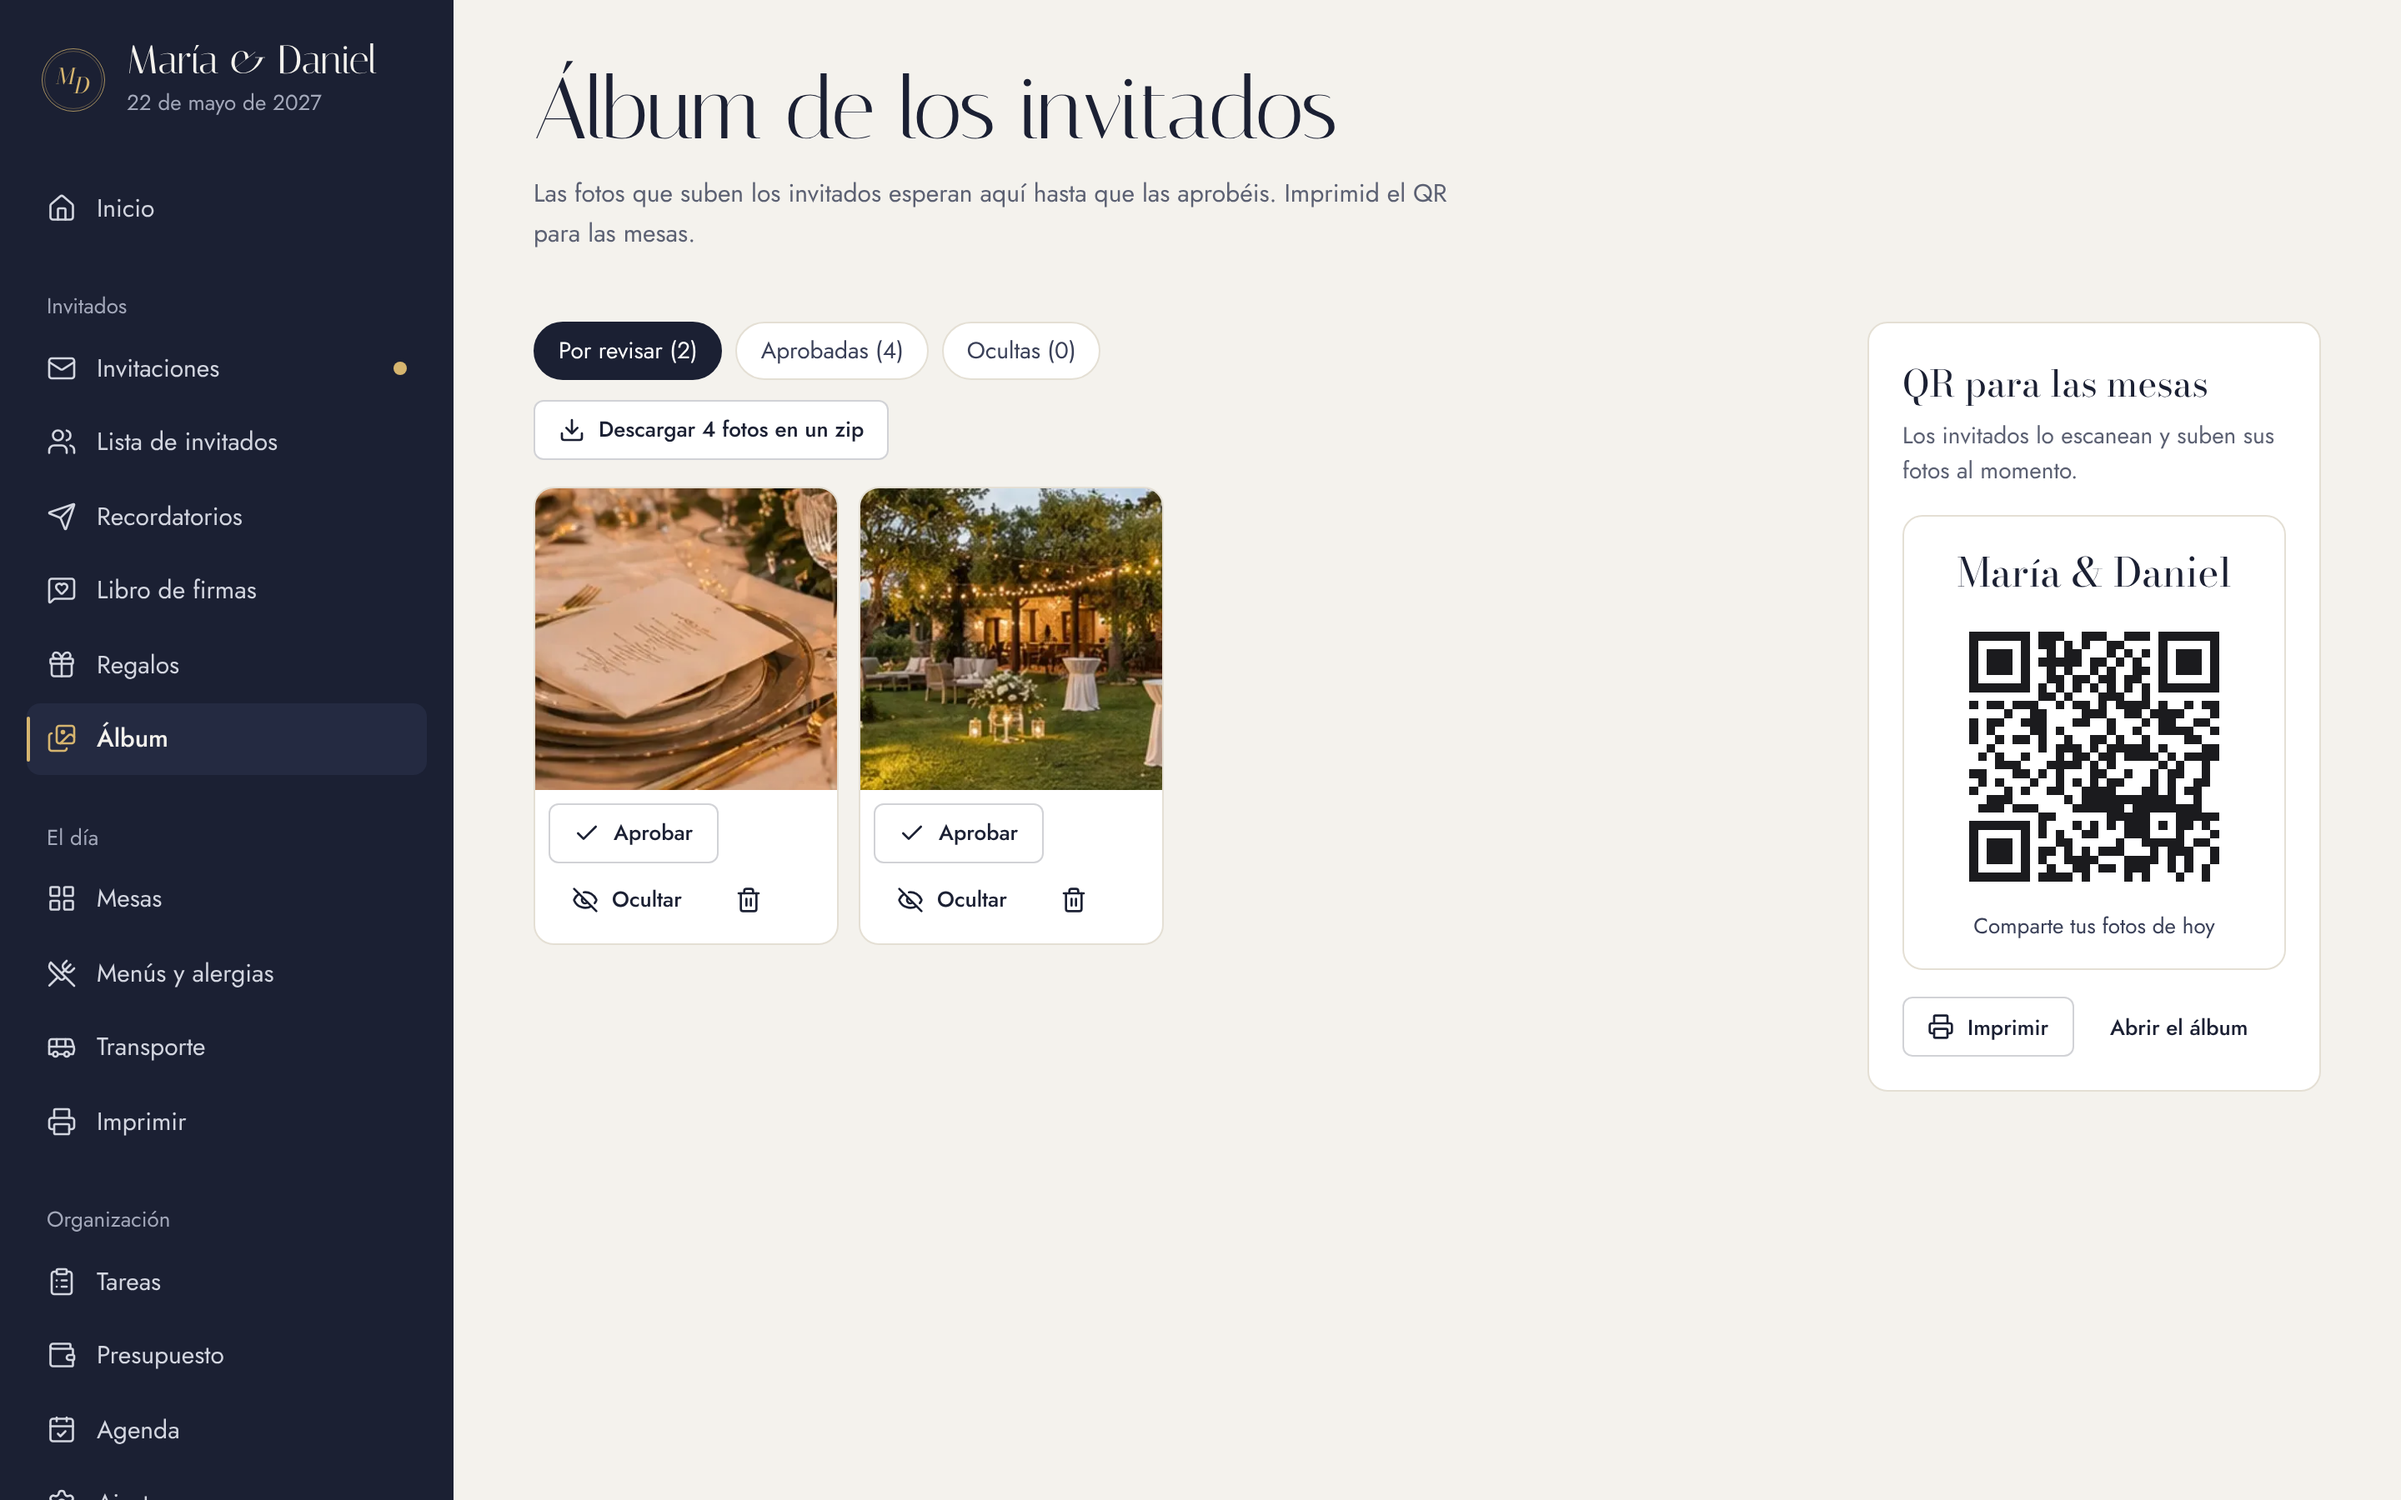
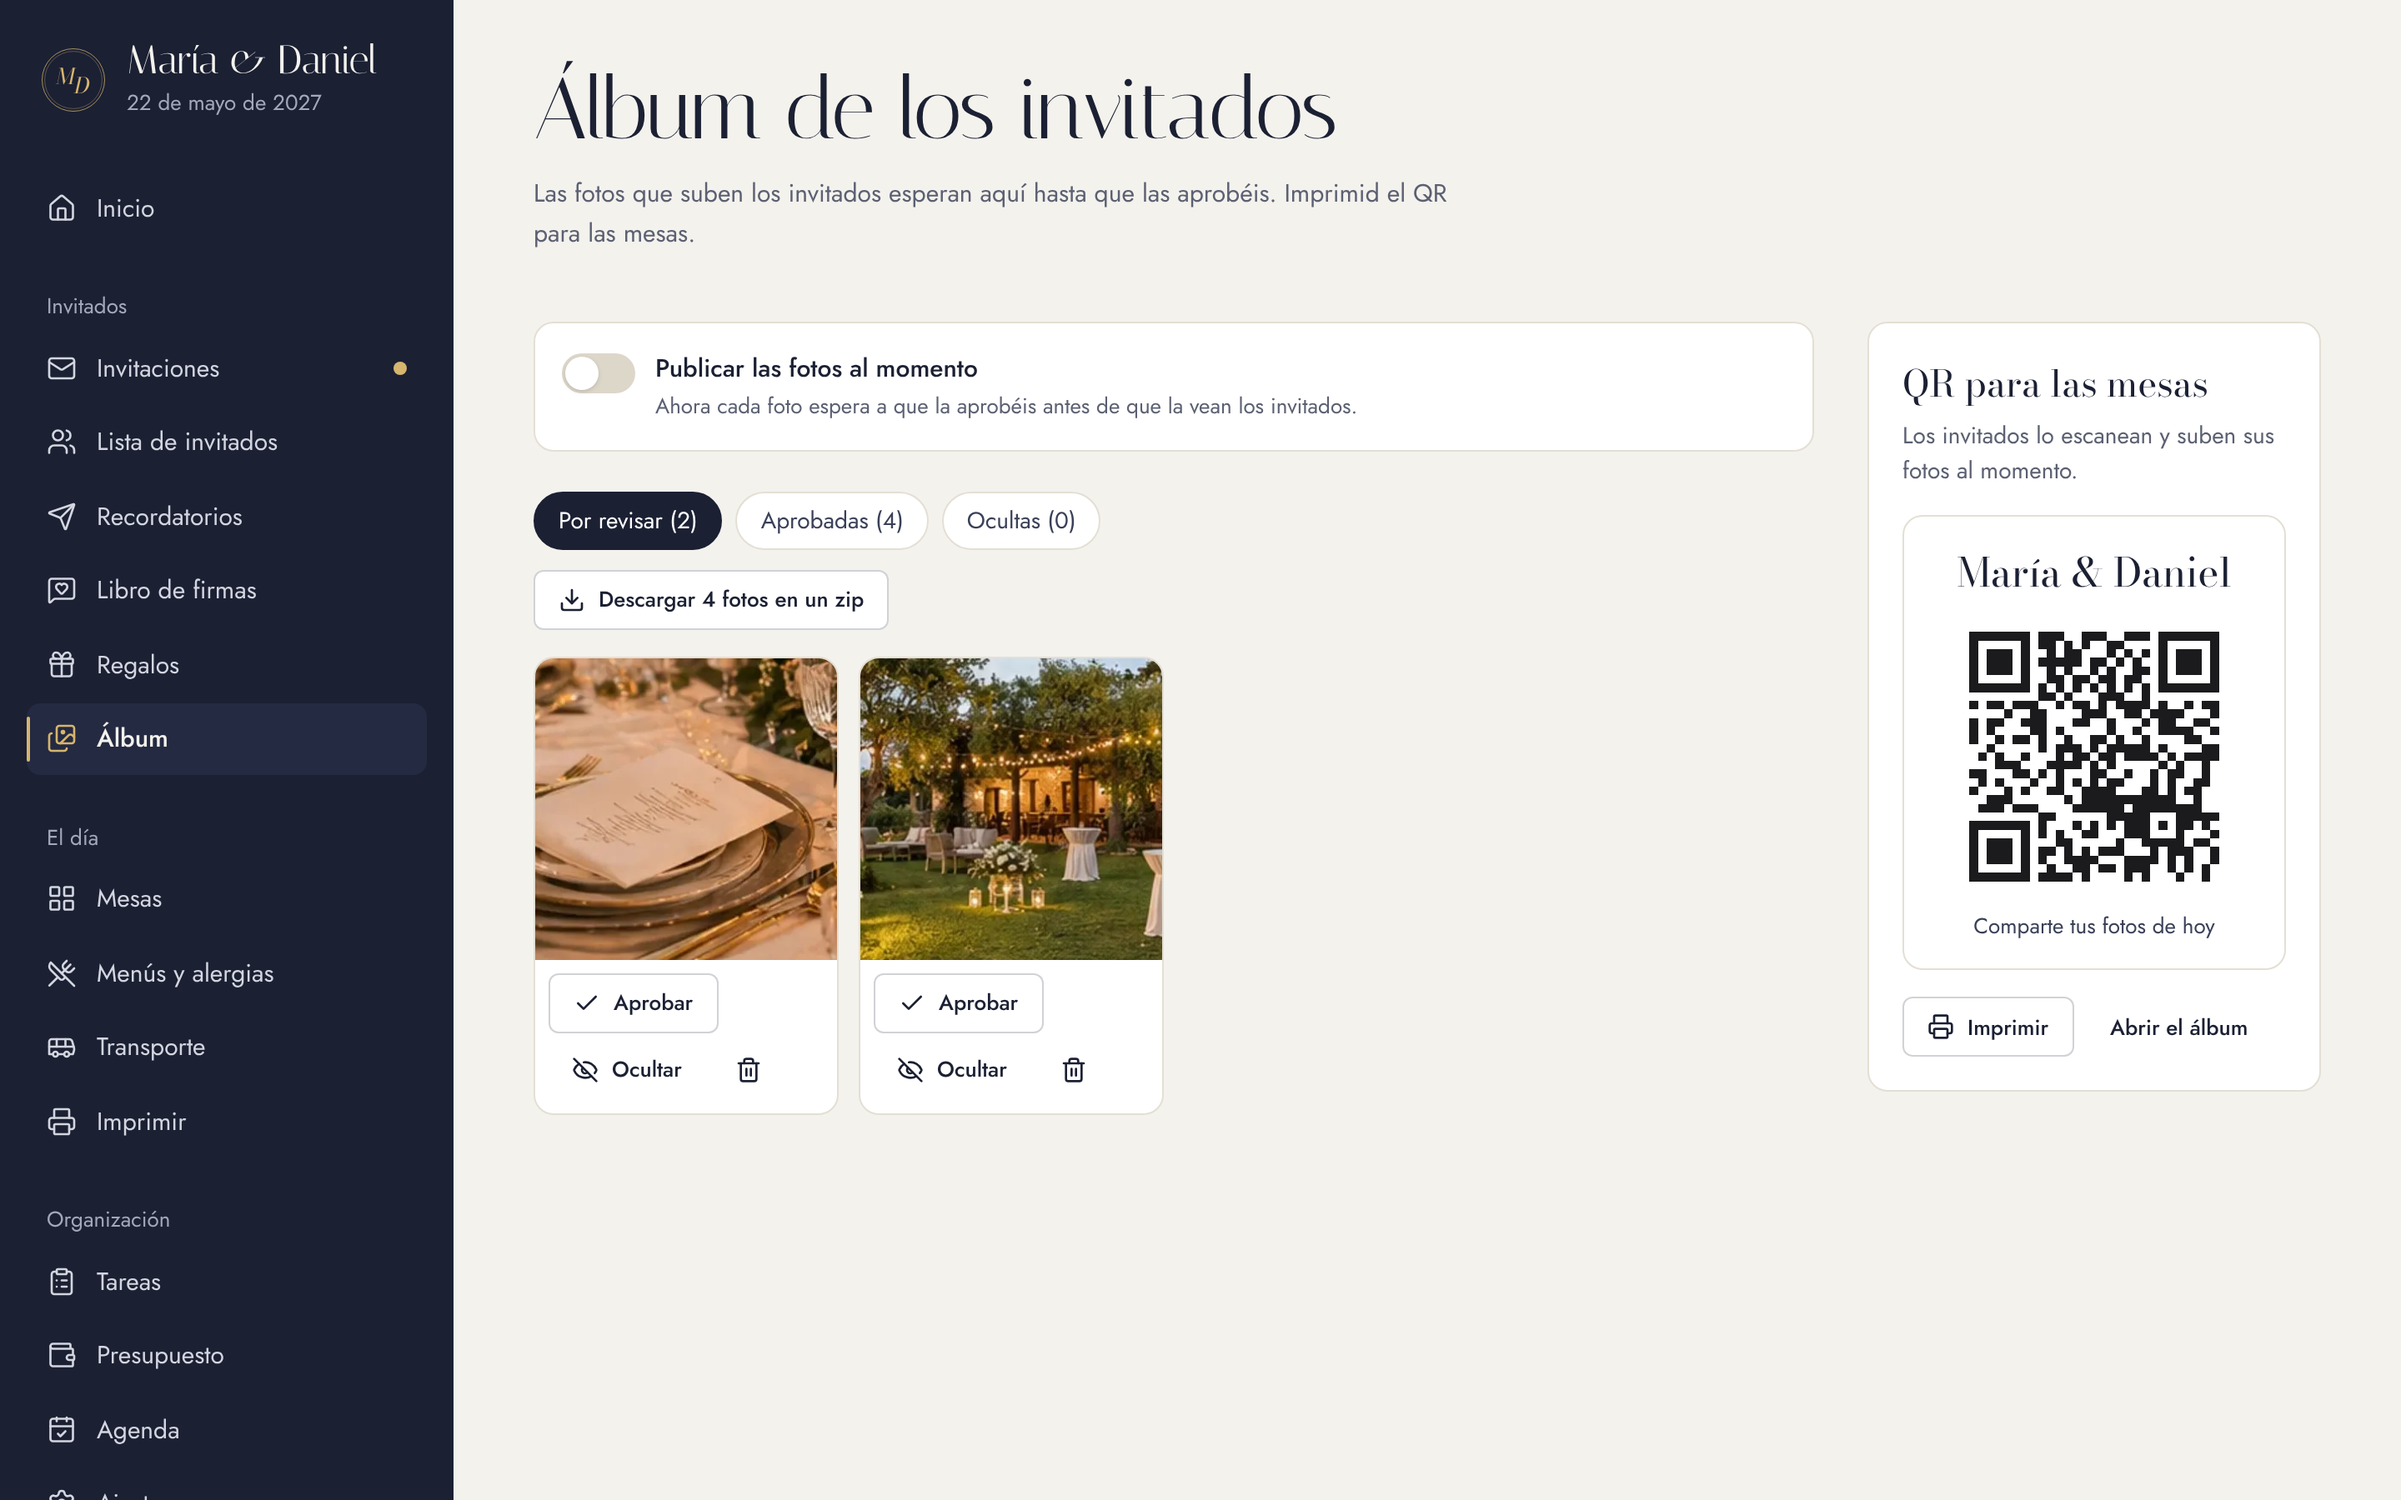
marketing: capturas del álbum con el interruptor de publicar al momento y el texto de calidad completa
Claude-Session: https://claude.ai/code/session_01XMPMfEBGZ9oi7tKEe9bDrZ

Changed region(s): [[0.2188, 0.1867, 0.5, 0.7156], [0.5312, 0.2489, 0.5625, 0.28], [0.375, 0.6844, 0.4062, 0.7156]]

diff --git a/marketing/capturas-album/README.md b/marketing/capturas-album/README.md
@@ -19,19 +19,20 @@ la captura se ocultaron el distintivo «Demo con datos ficticios», «Saltar int
 | ----------------------------- | ---------------------------------------------------------------------------------------------------------------------------------------------------------- |
 | `01_invitacion_seccion_album` | Solo móvil. En la invitación, antes de la boda: «El álbum de la boda», con tres fotos en abanico, y «Abrir el álbum». Avisa de que las mesas tendrán un QR |
 | `02_despues_de_la_boda`       | Solo móvil. Desde el día siguiente, la invitación da las gracias y enlaza al álbum: «Si te queda alguna en el móvil, aún puedes subirla»                   |
-| `03_album_portada`            | El álbum: «El álbum de María & Daniel», con «Elegir fotos» y «Hacer una foto»                                                                              |
+| `03_album_portada`            | El álbum: «El álbum de María & Daniel», con «Elegir fotos» y «Hacer una foto». Dice «Se suben con toda su calidad y sin datos de ubicación»                |
 | `04_album_fotos`              | Solo móvil. «Las fotos de todos»: la galería de fotos aprobadas                                                                                            |
 | `05_subir_fotos`              | Después de subir una foto: «1 foto enviada. ¡Gracias! Aparecerán cuando María y Daniel las revisen», con la foto marcada «Pendiente de revisar»            |
 | `06_pase_de_fotos`            | El pase de fotos a pantalla completa, con anterior, pausa y siguiente                                                                                      |
 
 ## Lo que ven los novios
 
-| Archivo                      | Qué muestra                                                                                                                                                           |
-| ---------------------------- | --------------------------------------------------------------------------------------------------------------------------------------------------------------------- |
-| `07_panel_album_por_revisar` | Panel, «Álbum de los invitados»: fotos por revisar con «Aprobar», «Ocultar» y borrar, y «Descargar 4 fotos en un zip». En el ordenador, al lado, el QR para las mesas |
-| `08_panel_album_aprobadas`   | Las fotos aprobadas, que ya ven todos los invitados                                                                                                                   |
-| `09_panel_qr_mesas`          | Solo móvil. «QR para las mesas», con «Imprimir» y «Abrir el álbum»                                                                                                    |
-| `10_imprimir_carteles_qr`    | Imprimir → «Carteles del álbum»: un cartel por mesa con «Comparte tus fotos de hoy», el QR y el nombre de la mesa                                                     |
+| Archivo                         | Qué muestra                                                                                                                                                           |
+| ------------------------------- | --------------------------------------------------------------------------------------------------------------------------------------------------------------------- |
+| `07_panel_album_por_revisar`    | Panel, «Álbum de los invitados»: fotos por revisar con «Aprobar», «Ocultar» y borrar, y «Descargar 4 fotos en un zip». En el ordenador, al lado, el QR para las mesas |
+| `08_panel_album_aprobadas`      | Las fotos aprobadas, que ya ven todos los invitados                                                                                                                   |
+| `08b_panel_publicar_al_momento` | El interruptor «Publicar las fotos al momento» encendido: las fotos nuevas se ven en el álbum en cuanto se suben, sin revisarlas. Viene apagado                       |
+| `09_panel_qr_mesas`             | Solo móvil. «QR para las mesas», con «Imprimir» y «Abrir el álbum»                                                                                                    |
+| `10_imprimir_carteles_qr`       | Imprimir → «Carteles del álbum»: un cartel por mesa con «Comparte tus fotos de hoy», el QR y el nombre de la mesa                                                     |
 
 ## Lo que hace de verdad el álbum
 
@@ -39,9 +40,11 @@ Comprobado en el código. Que no se prometa nada más.
 
 - **Subir fotos sin instalar nada**: el invitado escanea el QR de su mesa o abre el enlace de la
   invitación. Puede elegir fotos del móvil (hasta 10 a la vez) o hacer una foto con la cámara.
-- **Privacidad**: antes de enviarlas, las fotos se reducen y se les quitan los datos de ubicación.
-- **Los novios deciden qué se ve**: cada foto llega «por revisar». Los novios la aprueban, la
-  ocultan o la borran. Los invitados solo ven las aprobadas.
+- **Calidad y privacidad**: las fotos se suben a su tamaño real (hasta 4096 px, la resolución
+  completa de casi cualquier móvil) en JPEG de alta calidad, y sin los datos de ubicación.
+- **Los novios deciden qué se ve**: por defecto, cada foto llega «por revisar» y los novios la
+  aprueban, la ocultan o la borran. Si lo prefieren, activan «Publicar las fotos al momento» y se
+  ven en cuanto se suben (pueden ocultarlas o borrarlas después).
 - **Pase de fotos**: las fotos aprobadas se ven en un pase a pantalla completa.
 - **Descarga**: los novios descargan todas las fotos aprobadas en un zip.
 - **QR para las mesas**: el panel da el QR del álbum y, en Imprimir, un cartel por mesa listo para
